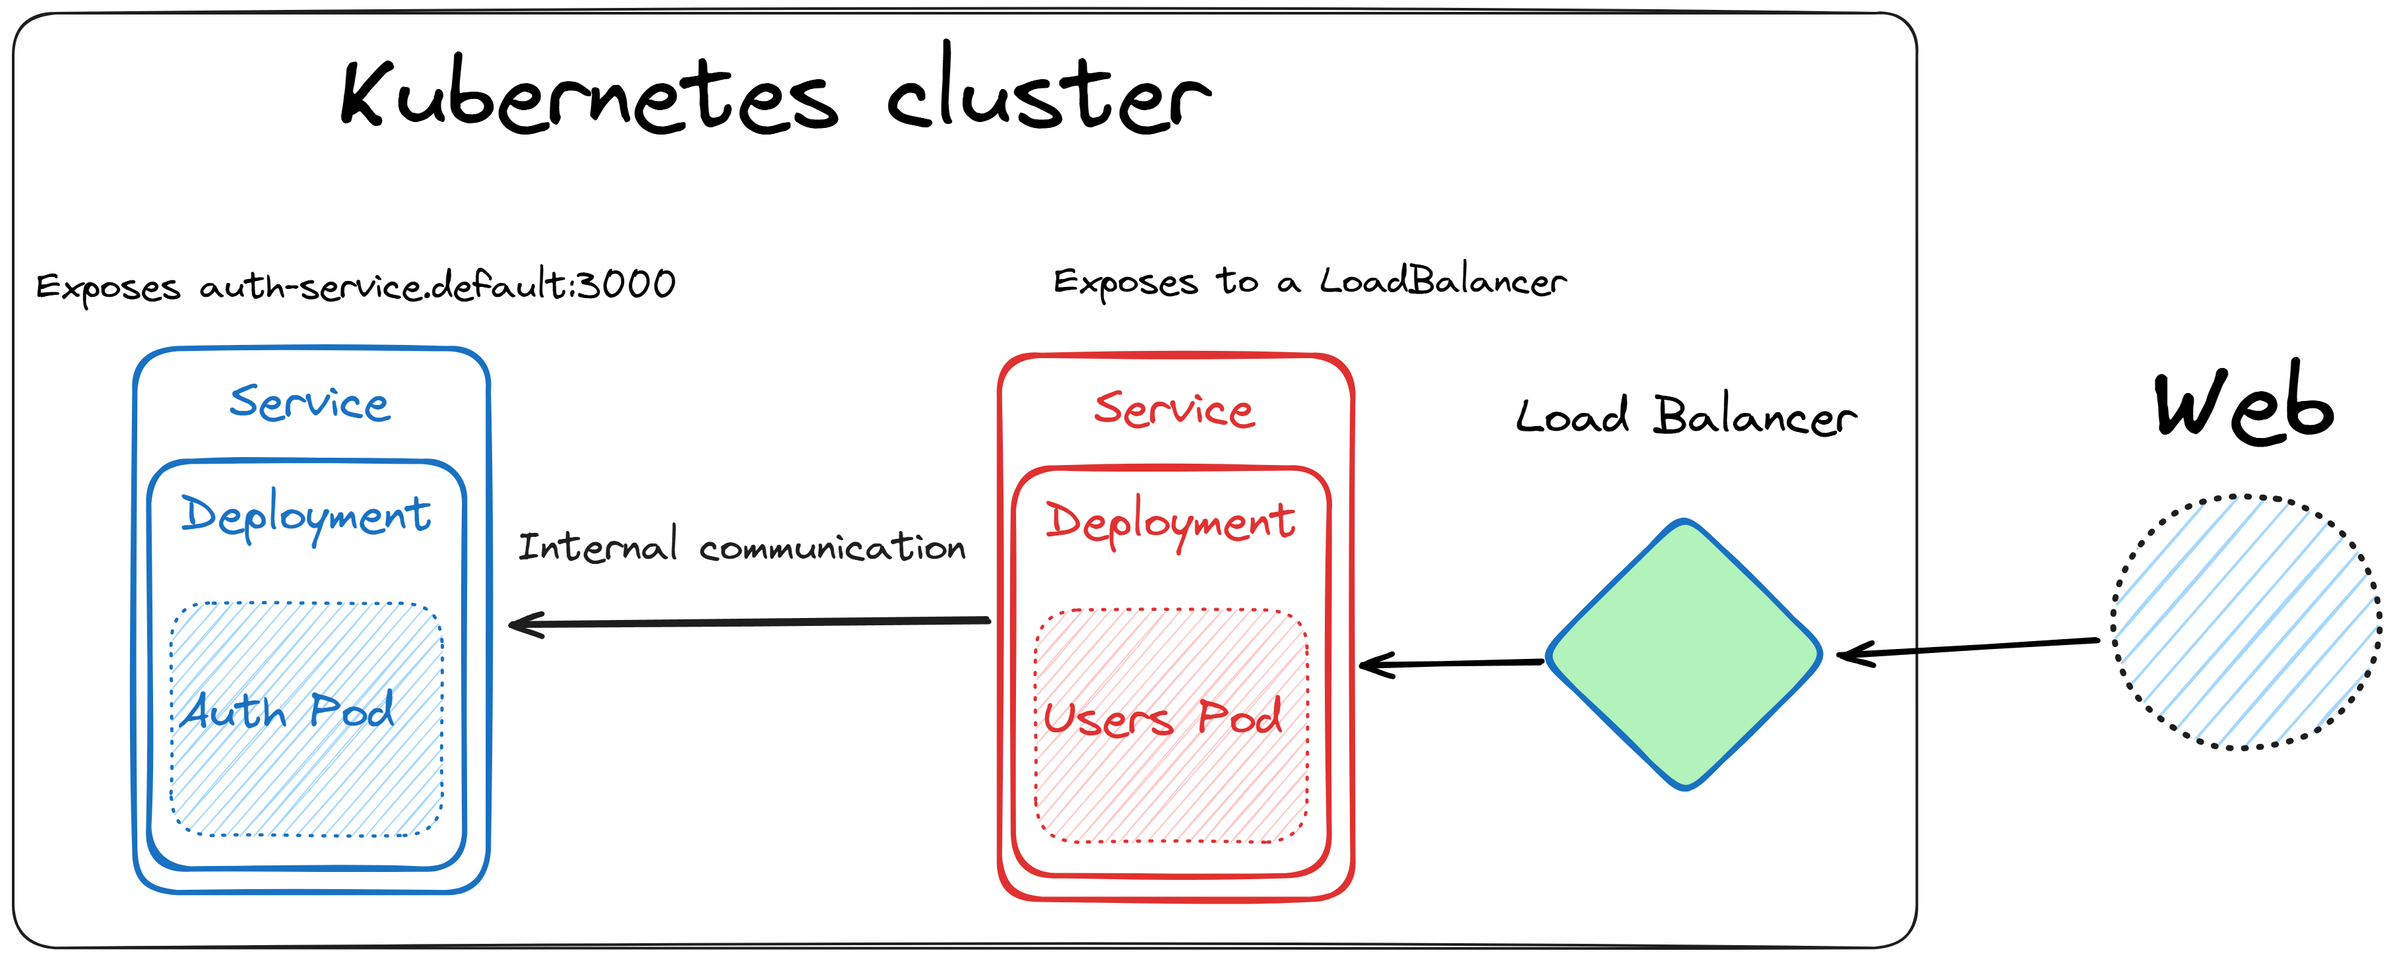
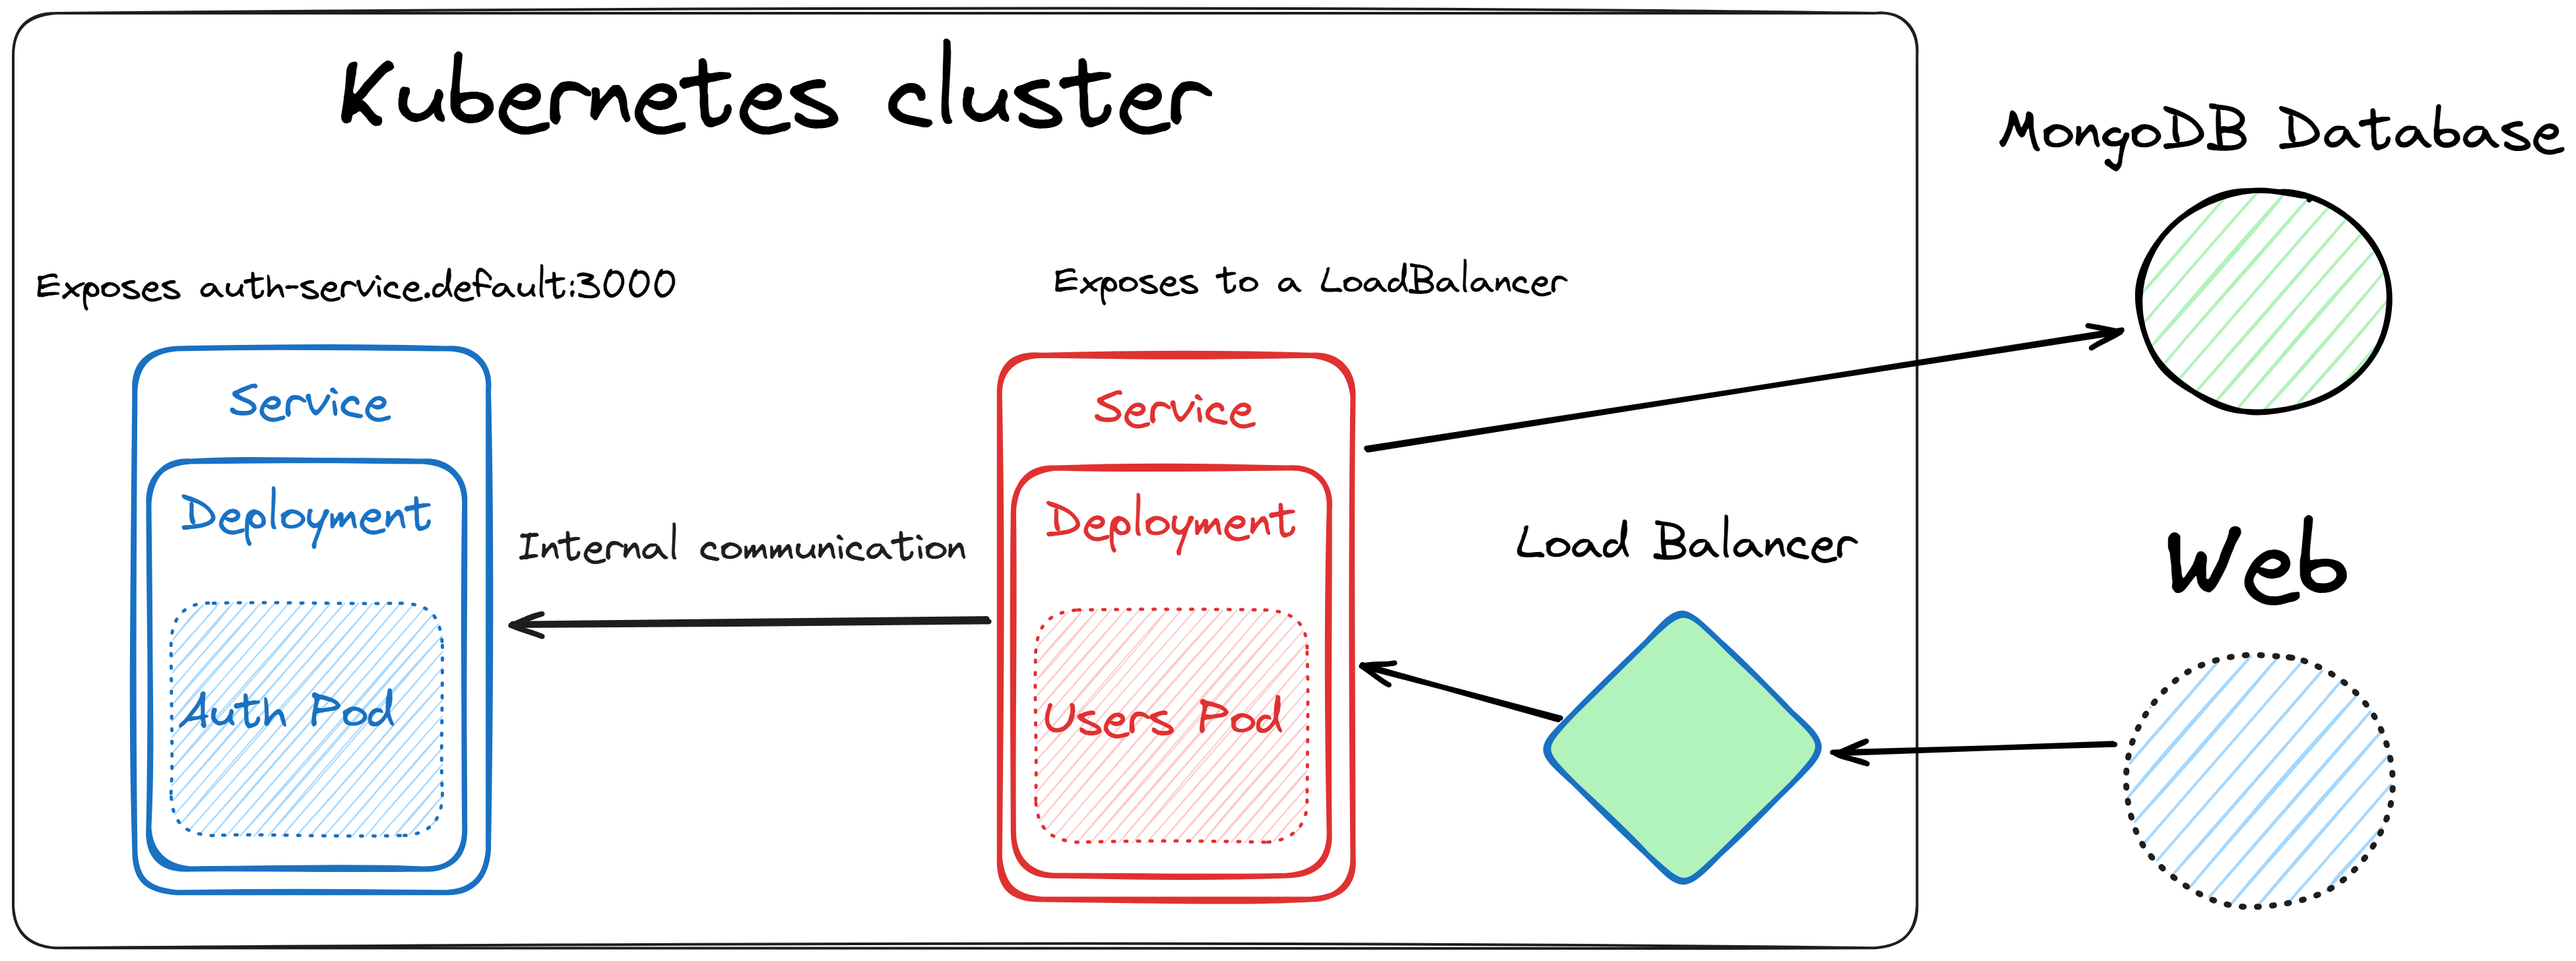
docs: updated the drawing image

diff --git a/readme.md b/readme.md
@@ -2,7 +2,7 @@
 
 ![kubernetes cluster](./draw.png "kubernetes cluster")
 
-This is a authentication microservice project it's divided in two separated services that communicate with each other, they are:
+This is a authentication microservice project it's divided in two separated internal services that communicate with each other and a external mongo database, the internal services is:
 
 ## Auth-api
 
